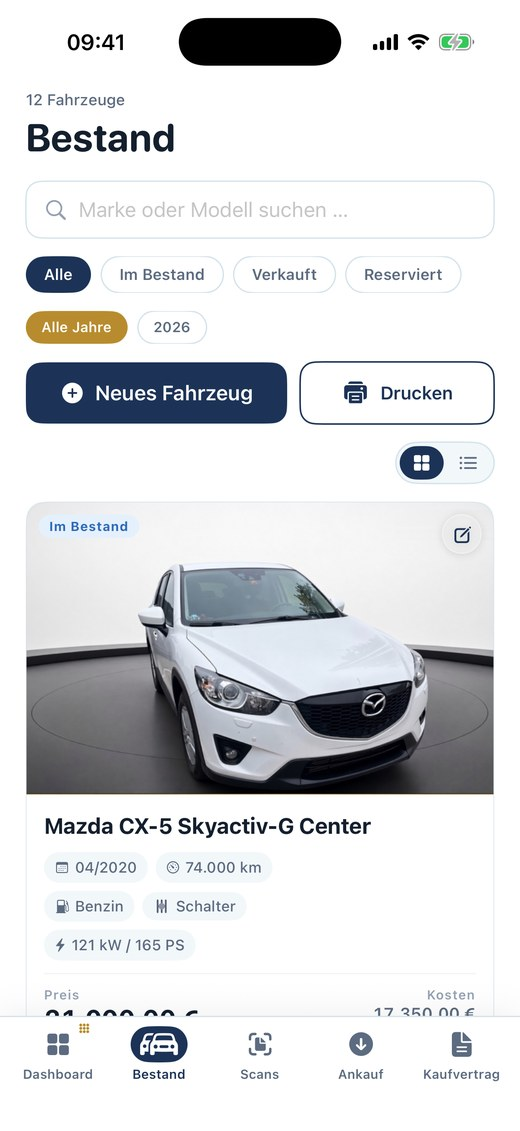
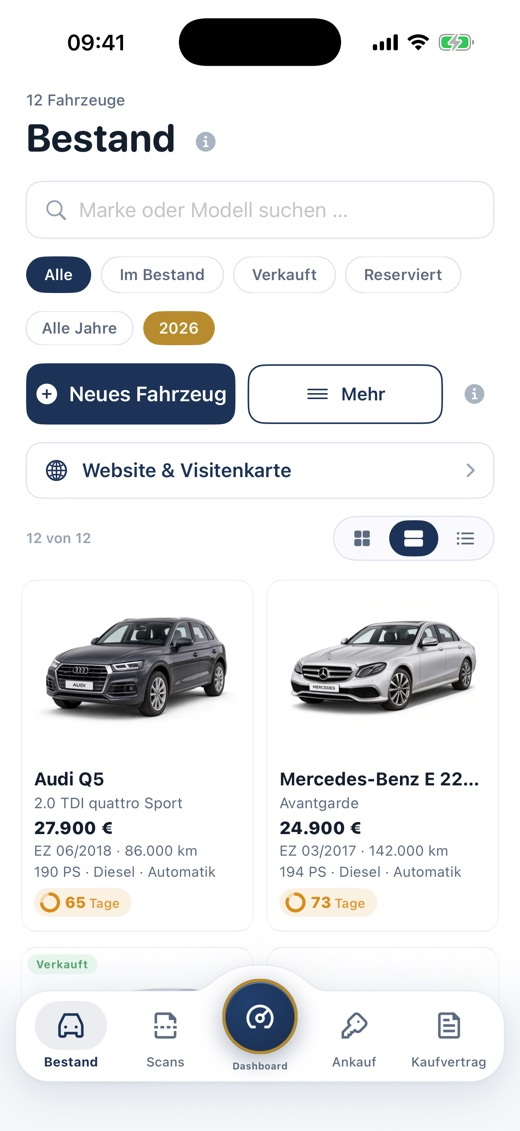
Neue Fassung: neue Musterautos, GLA mit BiRefNet und eigener Spiegelung, Vertrag+Quittung, neues Dashboard, zwei neue Funktionen, Englisch angeglichen (lokal, nicht veroeffentlicht)

diff --git a/en/index.html b/en/index.html
@@ -43,7 +43,7 @@
   <div class="held2 bahn">
     <div class="mitte">
       <div>
-        <div class="plakette"><i></i> Coming soon to the App Store · join the beta now</div>
+        <div class="plakette"><i></i> Coming soon to the App Store · try the beta now</div>
         <h1>Your car business.<br><span class="glanz">In one app.</span></h1>
         <p class="vor">Stock, contracts, photos and numbers, all in one place.
         Built by a dealer who needs exactly that every day.</p>
@@ -52,26 +52,26 @@
           <a class="knopf knopf-leer" href="#koennen">Learn more</a>
         </div>
         <div class="leiste-zahlen">
-          <div><strong>€0</strong><span>during the beta</span></div>
+          <div><strong>0 €</strong><span>during the beta</span></div>
           <div><strong>3 devices</strong><span>iPhone, iPad and Mac</span></div>
-          <div><strong>0 cloud</strong><span>your data stays with you</span></div>
+          <div><strong>0 Cloud</strong><span>your data stays with you</span></div>
         </div>
       </div>
       <div class="telefone" aria-hidden="true">
         <div class="telefon a"><img src="../bilder/bestand.jpg" alt=""></div>
-        <div class="telefon b"><img src="../bilder/dashboard.jpg" alt=""></div>
+        <div class="telefon b"><img src="../bilder/dashboard_2.jpg" alt=""></div>
       </div>
     </div>
   </div>
 </div>
 
-<div class="laufband" aria-hidden="true"><div class="laufband-maske"><div class="laufband-spur"><span><b>Sales contract</b>retail & export</span><span><b>Purchase</b>with ID scan</span><span><b>Power of attorney</b>registration & customs</span><span><b>Receipt</b>classic pad style</span><span><b>Invoice</b>with line items</span><span><b>Logbook</b>dealer plates</span><span><b>Showroom</b>background & light</span><span><b>Scans</b>receipts sorted</span><span><b>Tax</b>your year at a glance</span><span><b>F-gas</b>report ready</span><span><b>Calendar</b>inspections & dates</span><span><b>Backup</b>encrypted</span><span><b>Sales contract</b>retail & export</span><span><b>Purchase</b>with ID scan</span><span><b>Power of attorney</b>registration & customs</span><span><b>Receipt</b>classic pad style</span><span><b>Invoice</b>with line items</span><span><b>Logbook</b>dealer plates</span><span><b>Showroom</b>background & light</span><span><b>Scans</b>receipts sorted</span><span><b>Tax</b>your year at a glance</span><span><b>F-gas</b>report ready</span><span><b>Calendar</b>inspections & dates</span><span><b>Backup</b>encrypted</span></div></div></div>
+<div class="laufband" aria-hidden="true"><div class="laufband-maske"><div class="laufband-spur"><span><b>Sales contract</b>retail & export</span><span><b>Purchase</b>with ID scan</span><span><b>Power of attorney</b>registration & customs</span><span><b>Receipt</b>receipt-book style</span><span><b>Invoice</b>with line items</span><span><b>Logbook</b>dealer plates</span><span><b>Showroom</b>background & light</span><span><b>Scans</b>receipts sorted</span><span><b>Tax</b>your year at a glance</span><span><b>F-gas</b>report ready</span><span><b>Calendar</b>inspections & dates</span><span><b>Backup</b>encrypted</span><span><b>Sales contract</b>retail & export</span><span><b>Purchase</b>with ID scan</span><span><b>Power of attorney</b>registration & customs</span><span><b>Receipt</b>receipt-book style</span><span><b>Invoice</b>with line items</span><span><b>Logbook</b>dealer plates</span><span><b>Showroom</b>background & light</span><span><b>Scans</b>receipts sorted</span><span><b>Tax</b>your year at a glance</span><span><b>F-gas</b>report ready</span><span><b>Calendar</b>inspections & dates</span><span><b>Backup</b>encrypted</span></div></div></div>
 
-<!-- Features -->
+<!-- Funktionen: Versprechen statt Bauplan -->
 <section id="koennen" class="dunkel bahn">
   <div class="mitte">
     <h2 class="zeig">Everything a dealer needs every day</h2>
-    <p class="leitsatz zeig">Not a toolkit with a hundred switches. Just the workflows that really happen in the trade, made fast and beautiful.</p>
+    <p class="leitsatz zeig">No toolkit with a hundred switches. Just the tasks that really happen in the trade, made fast and beautiful.</p>
     <div class="raster">
       <div class="glas zeig">
         <div class="symbol"><svg viewBox="0 0 24 24"><path d="M3 13l2-5a2 2 0 0 1 2-1.3h10A2 2 0 0 1 19 8l2 5v5h-2.5M3 13v5h2.5M3 13h18"/><circle cx="7" cy="18" r="1.8"/><circle cx="17" cy="18" r="1.8"/></svg></div>
@@ -85,23 +85,33 @@
       </div>
       <div class="glas zeig">
         <div class="symbol"><svg viewBox="0 0 24 24"><path d="M4 8h3l2-3h6l2 3h3v11H4z"/><circle cx="12" cy="13" r="3.5"/></svg></div>
-        <h3>A clean presentation</h3>
-        <p>Cut out the car, add a new background and your logo. For several photos at once.</p>
+        <h3>A clean look</h3>
+        <p>Cut out the car, new background, your logo on it. For several photos at once.</p>
       </div>
       <div class="glas zeig">
         <div class="symbol"><svg viewBox="0 0 24 24"><path d="M4 7h16M4 12h10M4 17h7"/><path d="M17 14l2 2 3-4"/></svg></div>
         <h3>Scan instead of typing</h3>
-        <p>Photograph your documents, the data lands where it belongs.</p>
+        <p>Take a photo of the papers and the data lands where it belongs.</p>
       </div>
       <div class="glas zeig">
         <div class="symbol"><svg viewBox="0 0 24 24"><path d="M4 19V5M4 19h16"/><path d="M8 15l3-4 3 2 5-6"/></svg></div>
-        <h3>Numbers you can trust</h3>
-        <p>Revenue, profit, tax and deadlines in view, before the tax office asks.</p>
+        <h3>Numbers that add up</h3>
+        <p>Revenue, profit, tax and deadlines in view before the tax office asks.</p>
       </div>
       <div class="glas zeig">
         <div class="symbol"><svg viewBox="0 0 24 24"><circle cx="12" cy="12" r="8.5"/><path d="M12 7v5l3 2"/></svg></div>
-        <h3>Never forget a thing</h3>
+        <h3>Forget nothing</h3>
         <p>Appointments, inspections and reminders in one calendar, synced with your device calendar if you like.</p>
+      </div>
+      <div class="glas zeig">
+        <div class="symbol"><svg viewBox="0 0 24 24"><circle cx="12" cy="12" r="8.5"/><path d="M3.5 12h17M12 3.5c2.5 2.6 3.6 5.5 3.6 8.5s-1.1 5.9-3.6 8.5M12 3.5C9.5 6.1 8.4 9 8.4 12s1.1 5.9 3.6 8.5"/></svg></div>
+        <h3>Your own website</h3>
+        <p>Your stock becomes a small page with your cars and photos. Ready to upload, no website builder needed.</p>
+      </div>
+      <div class="glas zeig">
+        <div class="symbol"><svg viewBox="0 0 24 24"><path d="M4 12h11M11 7l5 5-5 5"/><path d="M19 5v14"/></svg></div>
+        <h3>Share cars with partners</h3>
+        <p>Send vehicles with photos and data to another dealer, password protected if you like.</p>
       </div>
     </div>
   </div>
@@ -110,24 +120,24 @@
 <section id="showroom" class="dunkel bahn">
   <div class="mitte vn-gitter">
     <div class="zeig">
-      <h2>From the lot to the studio</h2>
-      <p class="leitsatz">A phone snapshot from the lot becomes a clean showroom picture in seconds. Right inside the app, no photo studio, no image-service subscription.</p>
-      <ul><li>Car cut out automatically</li><li>Pick a studio background, or your own</li><li>Light matched to the room</li><li>Logo, price and details on the picture</li></ul>
+      <h2>From the yard to the studio</h2>
+      <p class="leitsatz">A phone photo from the yard becomes a clean showroom picture in seconds. Right in the app, no photo studio, no image service subscription.</p>
+      <ul><li>Cut out the car automatically</li><li>Choose a studio background, or your own</li><li>Match the light to the room</li><li>Put logo, price and details on the image</li></ul>
     </div>
     <div class="zeig">
       <div class="vergleich" style="--pos:50%">
-        <img src="../bilder/showroom_nachher.jpg" alt="Showroom picture from the app" loading="lazy">
-        <img class="vorher" src="../bilder/showroom_vorher.jpg" alt="Original photo on the lot" loading="lazy">
+        <img src="../bilder/showroom_nachher_5.jpg" alt="Showroom picture from the app" loading="lazy">
+        <img class="vorher" src="../bilder/showroom_vorher_3.jpg" alt="Original photo from the yard" loading="lazy">
         <div class="griff"></div>
         <span class="etikett l">Before</span><span class="etikett r">After</span>
         <input type="range" min="0" max="100" value="50" aria-label="Compare before and after">
       </div>
-      <p class="vn-fuss">Real example from the app, own photo from the lot.</p>
+      <p class="vn-fuss">Real example from the app, our own photo from the yard.</p>
     </div>
   </div>
 </section>
 
-<!-- Tour: the Mac stays put, the screen changes while scrolling -->
+<!-- Tour -->
 <section id="rundgang" class="dunkel bahn rundgang">
   <div class="mitte rg-gitter">
     <div class="rg-buehne" aria-hidden="true">
@@ -147,26 +157,26 @@
       <div class="rg-schritt aktiv" data-farbe="rgba(63,216,232,.55)">
         <span class="nr">01 · IN THE MORNING</span>
         <h3>Everything at a glance</h3>
-        <p>Revenue, days in stock and what is due today. Amounts stay hidden until you unlock them.</p>
-        <img class="rg-handy" src="../bilder/mac_dashboard.jpg" alt="Dashboard of the app" loading="lazy">
+        <p>Revenue, days in stock and what is due today. Amounts stay hidden until you reveal them.</p>
+        <img class="rg-handy" src="../bilder/mac_dashboard.jpg" alt="App dashboard" loading="lazy">
       </div>
       <div class="rg-schritt" data-farbe="rgba(201,169,110,.55)">
-        <span class="nr">02 · ON THE LOT</span>
+        <span class="nr">02 · ON THE YARD</span>
         <h3>Your stock with a face</h3>
-        <p>Every car with a photo and the key facts. You see at once what is standing and what is moving.</p>
+        <p>Every car with a photo and the key details. You see at once what is standing and what is selling.</p>
         <img class="rg-handy" src="../bilder/mac_bestand.jpg" alt="Vehicle stock as tiles" loading="lazy">
       </div>
       <div class="rg-schritt" data-farbe="rgba(120,140,255,.50)">
         <span class="nr">03 · WITH THE CUSTOMER</span>
         <h3>Customers you recognise</h3>
-        <p>Companies and private customers in order, with a photo, and one tap away in the contract.</p>
+        <p>Business and private customers sorted, with a photo, and in the contract with one tap.</p>
         <img class="rg-handy" src="../bilder/mac_kunden.jpg" alt="Customer list" loading="lazy">
       </div>
       <div class="rg-schritt" data-farbe="rgba(70,200,140,.50)">
         <span class="nr">04 · AT MONTH END</span>
-        <h3>Numbers without the headache</h3>
+        <h3>Numbers without headaches</h3>
         <p>Your year in numbers, neatly prepared for you and your tax adviser.</p>
-        <img class="rg-handy" src="../bilder/mac_steuer.jpg" alt="Annual overview" loading="lazy">
+        <img class="rg-handy" src="../bilder/mac_steuer.jpg" alt="Year overview" loading="lazy">
       </div>
     </div>
   </div>
@@ -175,35 +185,35 @@
 <!-- Devices -->
 <section id="geraete" class="dunkel bahn">
   <div class="mitte">
-    <h2 class="zeig">Capture on the go, continue at the office</h2>
-    <p class="leitsatz zeig">On the lot with the iPhone, at the customer's with the iPad, at the desk with the Mac.</p>
+    <h2 class="zeig">Capture on the go, continue in the office</h2>
+    <p class="leitsatz zeig">On the yard with the iPhone, with customers on the iPad, at the desk on the Mac.</p>
     <div class="geraete">
       <div class="glas geraet zeig"><div class="bildchen"><div class="form-phone"></div></div><h3>iPhone</h3><p>Photos, scans and stock right at the car.</p></div>
-      <div class="glas geraet zeig"><div class="bildchen"><div class="form-pad"></div></div><h3>iPad</h3><p>Large stock view with pictures, contracts ready to sign.</p></div>
-      <div class="glas geraet zeig"><div class="bildchen"><div class="form-mac"></div></div><h3>Mac</h3><p>Office work on the big screen, printing with one click.</p></div>
+      <div class="glas geraet zeig"><div class="bildchen"><div class="form-pad"></div></div><h3>iPad</h3><p>Large stock view with pictures, contracts to sign.</p></div>
+      <div class="glas geraet zeig"><div class="bildchen"><div class="form-mac"></div></div><h3>Mac</h3><p>Office work on the big screen, printing in one click.</p></div>
     </div>
   </div>
 </section>
 
-<!-- Paperwork: just a glimpse -->
+<!-- Paperwork -->
 <section class="dunkel bahn">
   <div class="mitte">
     <div class="vorhang zeig">
-      <img src="../bilder/papiere_banner.jpg" alt="Finished documents from the app with your own letterhead" loading="lazy">
+      <img src="../bilder/papiere_banner_2.jpg" alt="Ready-made documents from the app with your own letterhead" loading="lazy">
       <div class="ueber">Your letterhead on every page.</div>
     </div>
   </div>
 </section>
 
-<!-- Data promise -->
+<!-- Privacy -->
 <section id="daten" class="dunkel bahn">
   <div class="mitte">
     <h2 class="zeig">Your data belongs to you</h2>
-    <p class="leitsatz zeig">That is not a slogan, it is how the app is built.</p>
+    <p class="leitsatz zeig">This is not a slogan, it is how the app is built.</p>
     <div class="raster">
       <div class="glas zeig"><div class="symbol"><svg viewBox="0 0 24 24"><rect x="5" y="11" width="14" height="9" rx="2"/><path d="M8 11V8a4 4 0 0 1 8 0v3"/></svg></div><h3>No server</h3><p>Vehicles, customers and contracts stay on your device.</p></div>
       <div class="glas zeig"><div class="symbol"><svg viewBox="0 0 24 24"><circle cx="12" cy="8" r="3.5"/><path d="M5 20a7 7 0 0 1 14 0"/><path d="M4 4l16 16"/></svg></div><h3>No account</h3><p>No sign-up with us, no ads, no tracking of your behaviour.</p></div>
-      <div class="glas zeig"><div class="symbol"><svg viewBox="0 0 24 24"><path d="M12 3l7 3v6c0 4.5-3 7.5-7 9-4-1.5-7-4.5-7-9V6z"/><path d="M9 12l2 2 4-4"/></svg></div><h3>Your backup</h3><p>Back up everything with one tap, password-encrypted if you wish.</p></div>
+      <div class="glas zeig"><div class="symbol"><svg viewBox="0 0 24 24"><path d="M12 3l7 3v6c0 4.5-3 7.5-7 9-4-1.5-7-4.5-7-9V6z"/><path d="M9 12l2 2 4-4"/></svg></div><h3>Your backup</h3><p>Back up everything with one tap, password encrypted if you like.</p></div>
     </div>
   </div>
 </section>
@@ -212,28 +222,28 @@
 <section id="preise" class="dunkel bahn">
   <div class="mitte">
     <h2 class="zeig" style="text-align:center">Free during the beta</h2>
-    <p class="leitsatz zeig" style="text-align:center;margin-left:auto;margin-right:auto">All features, no subscription, no catch. Help us make the app fit everyday dealer work.</p>
+    <p class="leitsatz zeig" style="text-align:center;margin-left:auto;margin-right:auto">All features, no subscription, no catch. Help make the app a perfect fit for everyday dealing.</p>
     <div class="preise" style="grid-template-columns:minmax(0,340px);justify-content:center">
       <div class="glas preis empfohlen zeig">
         <div class="band">Beta</div>
         <div class="titel">For beta testers</div>
-        <div class="betrag">€0</div>
+        <div class="betrag">0 €</div>
         <ul><li>All features</li><li>iPhone, iPad and Mac</li><li>Nothing to cancel</li></ul>
       </div>
     </div>
-    <p class="preis-fuss zeig">Later there will be a fair subscription through your Apple account. Beta testers will be the first to know. Nobody will be charged without being asked.</p>
+    <p class="preis-fuss zeig">Later there will be a fair subscription through your Apple account. Beta testers hear about it first. Nobody is charged without being asked.</p>
   </div>
 </section>
 
-<!-- Founder, short -->
+<!-- Founder -->
 <section class="bahn gruender-band">
   <div class="mitte">
     <div class="gruender">
       <div class="strich"></div>
       <div>
-        <h2>From a dealer, not a software company</h2>
-        <p>I trade vehicles myself. VenoqAuto was born because nothing out there really covered my
-        daily work. Every feature in it exists because I need it myself.</p>
+        <h2>From a dealer, not from a software company</h2>
+        <p>I trade vehicles myself. VenoqAuto exists because there was nothing
+        that really covered my day. Every feature in it is there because I need it myself.</p>
         <p class="signatur">Mohamed Ali Hussein, founder</p>
       </div>
     </div>

diff --git a/index.html b/index.html
@@ -59,7 +59,7 @@
       </div>
       <div class="telefone" aria-hidden="true">
         <div class="telefon a"><img src="bilder/bestand.jpg" alt=""></div>
-        <div class="telefon b"><img src="bilder/dashboard.jpg" alt=""></div>
+        <div class="telefon b"><img src="bilder/dashboard_2.jpg" alt=""></div>
       </div>
     </div>
   </div>
@@ -103,6 +103,16 @@
         <h3>Nichts vergessen</h3>
         <p>Termine, TÜV und Erinnerungen in einem Kalender, auf Wunsch mit deinem Gerätekalender.</p>
       </div>
+      <div class="glas zeig">
+        <div class="symbol"><svg viewBox="0 0 24 24"><circle cx="12" cy="12" r="8.5"/><path d="M3.5 12h17M12 3.5c2.5 2.6 3.6 5.5 3.6 8.5s-1.1 5.9-3.6 8.5M12 3.5C9.5 6.1 8.4 9 8.4 12s1.1 5.9 3.6 8.5"/></svg></div>
+        <h3>Deine eigene Website</h3>
+        <p>Aus deinem Bestand wird eine kleine Seite mit deinen Autos und Fotos. Fertig zum Hochladen, ohne Baukasten.</p>
+      </div>
+      <div class="glas zeig">
+        <div class="symbol"><svg viewBox="0 0 24 24"><path d="M4 12h11M11 7l5 5-5 5"/><path d="M19 5v14"/></svg></div>
+        <h3>Autos an Partner geben</h3>
+        <p>Fahrzeuge mit Fotos und Daten an einen anderen Händler schicken, auf Wunsch mit Passwort.</p>
+      </div>
     </div>
   </div>
 </section>
@@ -116,8 +126,8 @@
     </div>
     <div class="zeig">
       <div class="vergleich" style="--pos:50%">
-        <img src="bilder/showroom_nachher.jpg" alt="Showroom-Bild aus der App" loading="lazy">
-        <img class="vorher" src="bilder/showroom_vorher.jpg" alt="Originalfoto vom Hof" loading="lazy">
+        <img src="bilder/showroom_nachher_5.jpg" alt="Showroom-Bild aus der App" loading="lazy">
+        <img class="vorher" src="bilder/showroom_vorher_3.jpg" alt="Originalfoto vom Hof" loading="lazy">
         <div class="griff"></div>
         <span class="etikett l">Vorher</span><span class="etikett r">Nachher</span>
         <input type="range" min="0" max="100" value="50" aria-label="Vorher und Nachher vergleichen">
@@ -189,7 +199,7 @@
 <section class="dunkel bahn">
   <div class="mitte">
     <div class="vorhang zeig">
-      <img src="bilder/papiere_banner.jpg" alt="Fertige Vordrucke aus der App mit eigenem Briefkopf" loading="lazy">
+      <img src="bilder/papiere_banner_2.jpg" alt="Fertige Vordrucke aus der App mit eigenem Briefkopf" loading="lazy">
       <div class="ueber">Dein Briefkopf auf jedem Blatt.</div>
     </div>
   </div>

diff --git a/style.css b/style.css
@@ -281,7 +281,7 @@ h2 {
 
 .vorhang { position: relative; border-radius: 22px; overflow: hidden; border: 1px solid var(--grund-rand); }
 .vorhang img { filter: saturate(1.05); }
-.vorhang::after { content: ""; position: absolute; inset: 0; background: linear-gradient(180deg, transparent 35%, var(--grund) 96%); }
+.vorhang::after { content: ""; position: absolute; inset: 0; background: linear-gradient(180deg, transparent 72%, var(--grund) 100%); }
 .vorhang .ueber { position: absolute; left: 0; right: 0; bottom: 26px; text-align: center; z-index: 1; color: #fff; font-weight: 700; font-size: 18px; }
 
 .ruf { text-align: center; padding: 70px 22px; }
@@ -298,8 +298,8 @@ h2 {
 /* Abstand der Abschnitte (.bahn ueberschrieb das senkrechte Polster) */
 section.bahn { padding: 84px 22px; }
 .dunkel + .dunkel section.bahn, section.dunkel.bahn + section.dunkel.bahn { padding-top: 40px; }
-.vorhang { max-height: 460px; }
-.vorhang img { object-fit: cover; object-position: top; height: 460px; width: 100%; }
+.vorhang { max-height: none; }
+.vorhang img { display: block; width: 100%; height: auto; }
 /* Gruender als dunkle Karte, passend zum Rest */
 .gruender-band { background: var(--grund); }
 .gruender-band .gruender { background: linear-gradient(160deg, rgba(255,255,255,.06), rgba(255,255,255,.02));
